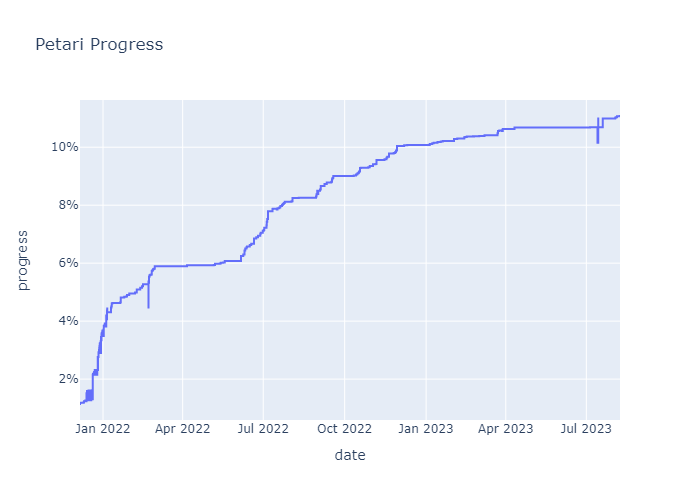
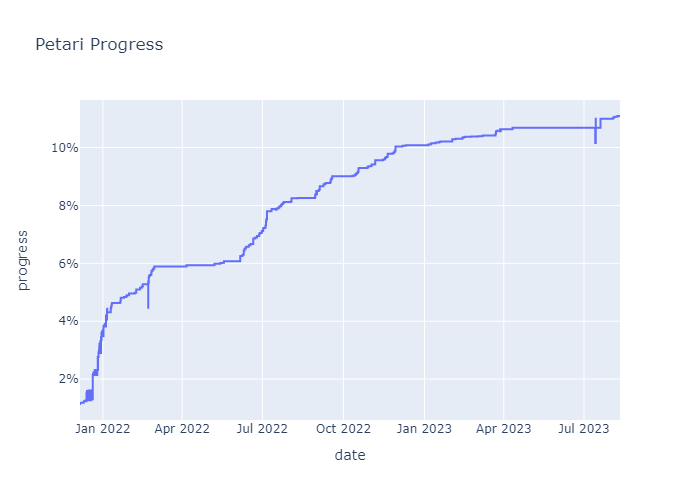
More progress on `ArchiveHolder.o`

diff --git a/source/Game/System/ArchiveHolder.cpp b/source/Game/System/ArchiveHolder.cpp
@@ -19,3 +19,49 @@ ArchiveHolderArchiveEntry::~ArchiveHolderArchiveEntry() {
     mArchive->unmount();
     delete mArchiveName;
 }
+
+ArchiveHolder::ArchiveHolder() {
+    mEntries = nullptr;
+    mMaxEntries = 0;
+    mCurEntryNum = 0;
+    mEntries = new ArchiveHolderArchiveEntry*[0x180];
+    mMaxEntries = 0x180;
+    OSInitMutex(&mMutex);
+}
+
+ArchiveHolderArchiveEntry* ArchiveHolder::createAndAdd(void *pData, JKRHeap *pHeap, const char *pName) {
+    ArchiveHolderArchiveEntry* entry = new(pHeap, 0) ArchiveHolderArchiveEntry(pData, pHeap, pName);
+    OSMutex* mutex = &mMutex;
+    OSLockMutex(mutex);
+    s32 num = mCurEntryNum;
+    mCurEntryNum = num + 1;
+    mEntries[num] = entry;
+    OSUnlockMutex(mutex);
+    return entry;
+}
+
+JKRMemArchive* ArchiveHolder::getArchive(const char *pName) const {
+    ArchiveHolderArchiveEntry* entry = findEntry(pName);
+    return (entry != nullptr) ? entry->mArchive : nullptr;
+}
+
+void ArchiveHolder::getArchiveAndHeap(const char *pName, JKRArchive** pArchive, JKRHeap** pHeap) const {
+    ArchiveHolderArchiveEntry* entry = findEntry(pName);
+
+    if (entry != nullptr) {
+        *pArchive = entry->mArchive;
+        *pHeap = entry->mHeap;
+    }
+}
+
+// void ArchiveHolder::removeIfIsEqualHeap(JKRHeap *pHeap)
+
+ArchiveHolderArchiveEntry* ArchiveHolder::findEntry(const char *pName) const {
+    for (ArchiveHolderArchiveEntry** i = first(); i != last(); i++) {
+        if (MR::isEqualStringCase((*i)->mArchiveName, pName)) {
+            return *i;
+        }
+    }
+
+    return nullptr;
+}

diff --git a/include/Game/System/ArchiveHolder.h b/include/Game/System/ArchiveHolder.h
@@ -1,6 +1,7 @@
 #pragma once
 
 #include <JSystem/JKernel/JKRMemArchive.h>
+#include <revolution.h>
 
 class ArchiveHolderArchiveEntry {
 public:
@@ -10,4 +11,28 @@ public:
     JKRMemArchive* mArchive;        // _0
     JKRHeap* mHeap;                 // _4
     char* mArchiveName;             // _8
+};
+
+class ArchiveHolder {
+public:
+    ArchiveHolder();
+
+    ArchiveHolderArchiveEntry** first() const {
+        return mEntries;
+    }
+
+    ArchiveHolderArchiveEntry** last() const {
+        return &mEntries[mCurEntryNum];
+    }
+
+    ArchiveHolderArchiveEntry* createAndAdd(void *, JKRHeap *, const char *);
+    JKRMemArchive* getArchive(const char *) const;
+    void getArchiveAndHeap(const char *, JKRArchive **, JKRHeap **) const;
+    void removeIfIsEqualHeap(JKRHeap *);
+    ArchiveHolderArchiveEntry* findEntry(const char *) const;
+
+    ArchiveHolderArchiveEntry** mEntries;           // _0
+    s32 mMaxEntries;                                // _4
+    s32 mCurEntryNum;                               // _8
+    OSMutex mMutex;                                 // _C
 };

diff --git a/include/Game/System/FunctionAsyncExecutor.h b/include/Game/System/FunctionAsyncExecutor.h
@@ -56,13 +56,6 @@ public:
     OSThread* mThread;          // _124
 };
 
-struct FunctionAsyncHolder {
-    FunctionAsyncExecInfo* _0;
-    FunctionAsyncExecInfo* _4;
-    u32 _8;
-    FunctionAsyncExecInfo* _C;
-};
-
 class FunctionAsyncExecutor {
 public:
     FunctionAsyncExecutor();

diff --git a/docs/lib/System.md b/docs/lib/System.md
@@ -9,7 +9,7 @@
 | Object | Percentage (of Bytes) | Functions Done / Total Functions | Percentage (Functions) | Status 
 | ------------- | ------------- | ------------- | ------------- | ------------- 
 | [AlreadyDoneFlagInGalaxy.o](https://github.com/shibbo/Petari/blob/master/docs/lib/System/AlreadyDoneFlagInGalaxy.md) | 58.98876404494382% | 7 / 9 | 77.77777777777779% | :eight_pointed_black_star: 
-| [ArchiveHolder.o](https://github.com/shibbo/Petari/blob/master/docs/lib/System/ArchiveHolder.md) | 27.586206896551722% | 2 / 8 | 25.0% | :eight_pointed_black_star: 
+| [ArchiveHolder.o](https://github.com/shibbo/Petari/blob/master/docs/lib/System/ArchiveHolder.md) | 75.47892720306514% | 7 / 8 | 87.5% | :eight_pointed_black_star: 
 | [AudSystemWrapper.o](https://github.com/shibbo/Petari/blob/master/docs/lib/System/AudSystemWrapper.md) | 0.0% | 0 / 20 | 0.0% | :x: 
 | [BinaryDataChunkHolder.o](https://github.com/shibbo/Petari/blob/master/docs/lib/System/BinaryDataChunkHolder.md) | 16.877637130801688% | 2 / 7 | 28.57142857142857% | :eight_pointed_black_star: 
 | [BinaryDataContentAccessor.o](https://github.com/shibbo/Petari/blob/master/docs/lib/System/BinaryDataContentAccessor.md) | 0.0% | 0 / 12 | 0.0% | :x: 

diff --git a/docs/lib/System/ArchiveHolder.md b/docs/lib/System/ArchiveHolder.md
@@ -5,15 +5,15 @@
 | :white_check_mark: | Function is completed. 
 
 
-# 2 / 8 Completed -- (25.0%)
+# 7 / 8 Completed -- (87.5%)
 # ArchiveHolder.o
 | Symbol | Decompiled? |
 | ------------- | ------------- |
 | `__ct__25ArchiveHolderArchiveEntryFPvP7JKRHeapPCc` | :white_check_mark: |
 | `__dt__25ArchiveHolderArchiveEntryFv` | :white_check_mark: |
-| `__ct__13ArchiveHolderFv` | :x: |
-| `createAndAdd__13ArchiveHolderFPvP7JKRHeapPCc` | :x: |
-| `getArchive__13ArchiveHolderCFPCc` | :x: |
-| `getArchiveAndHeap__13ArchiveHolderCFPCcPP10JKRArchivePP7JKRHeap` | :x: |
+| `__ct__13ArchiveHolderFv` | :white_check_mark: |
+| `createAndAdd__13ArchiveHolderFPvP7JKRHeapPCc` | :white_check_mark: |
+| `getArchive__13ArchiveHolderCFPCc` | :white_check_mark: |
+| `getArchiveAndHeap__13ArchiveHolderCFPCcPP10JKRArchivePP7JKRHeap` | :white_check_mark: |
 | `removeIfIsEqualHeap__13ArchiveHolderFP7JKRHeap` | :x: |
-| `findEntry__13ArchiveHolderCFPCc` | :x: |
+| `findEntry__13ArchiveHolderCFPCc` | :white_check_mark: |

diff --git a/docs/PROGRESS.md b/docs/PROGRESS.md
@@ -22,5 +22,5 @@
 | [Scene](https://github.com/shibbo/Petari/blob/master/docs/lib/Scene.md) | 12.230081906180192% |
 | [Screen](https://github.com/shibbo/Petari/blob/master/docs/lib/Screen.md) | 3.9020947950289457% |
 | [Speaker](https://github.com/shibbo/Petari/blob/master/docs/lib/Speaker.md) | 49.743881616391576% |
-| [System](https://github.com/shibbo/Petari/blob/master/docs/lib/System.md) | 11.439150345902757% |
+| [System](https://github.com/shibbo/Petari/blob/master/docs/lib/System.md) | 11.743642209880152% |
 | [Util](https://github.com/shibbo/Petari/blob/master/docs/lib/Util.md) | 9.661178747499052% |
